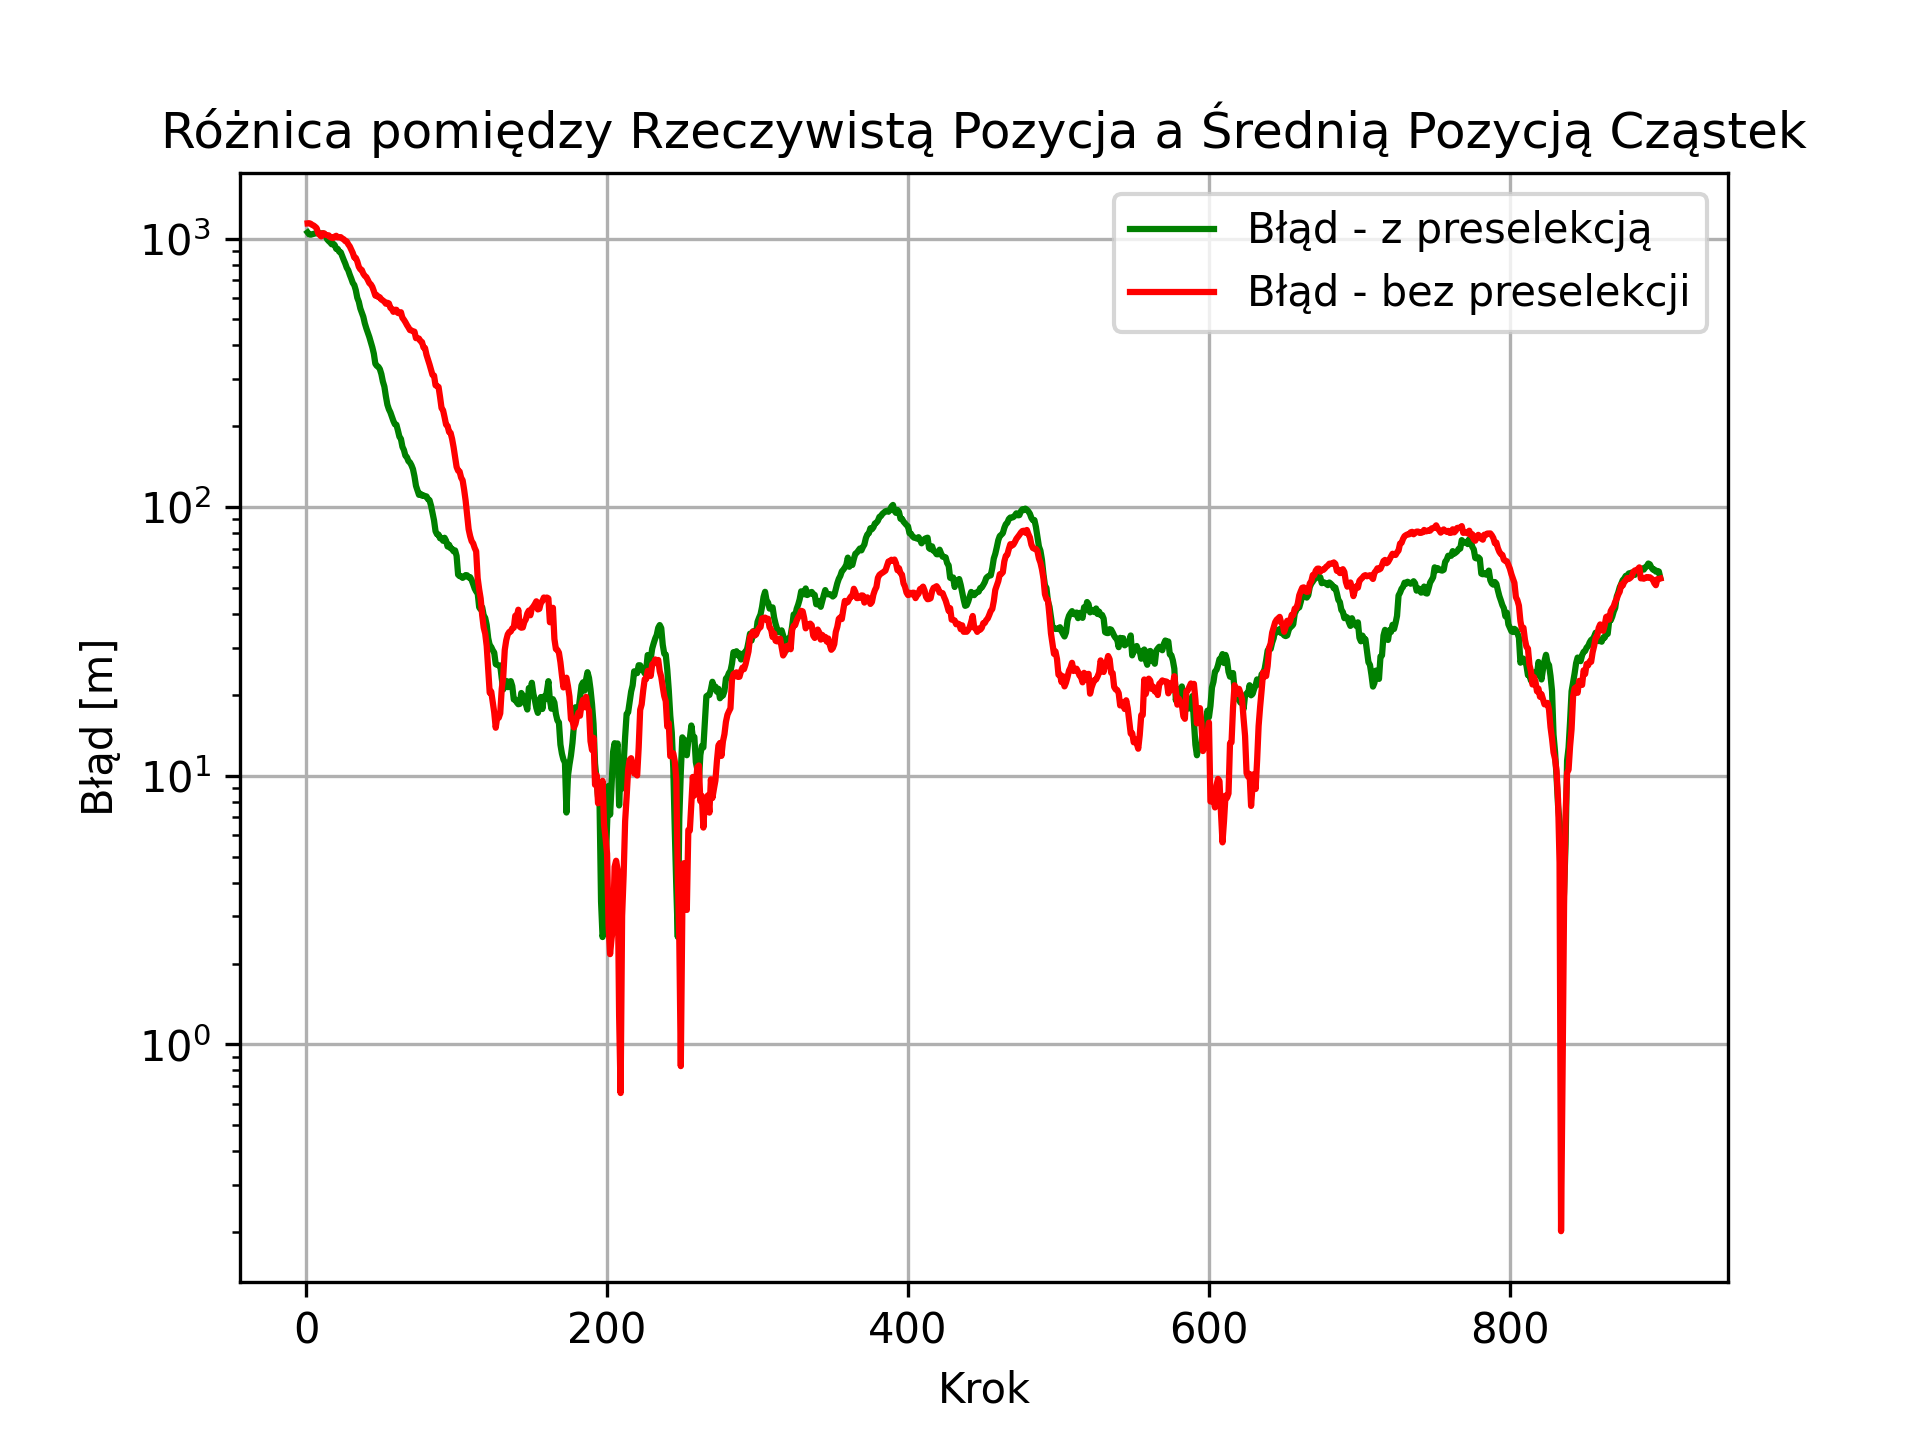
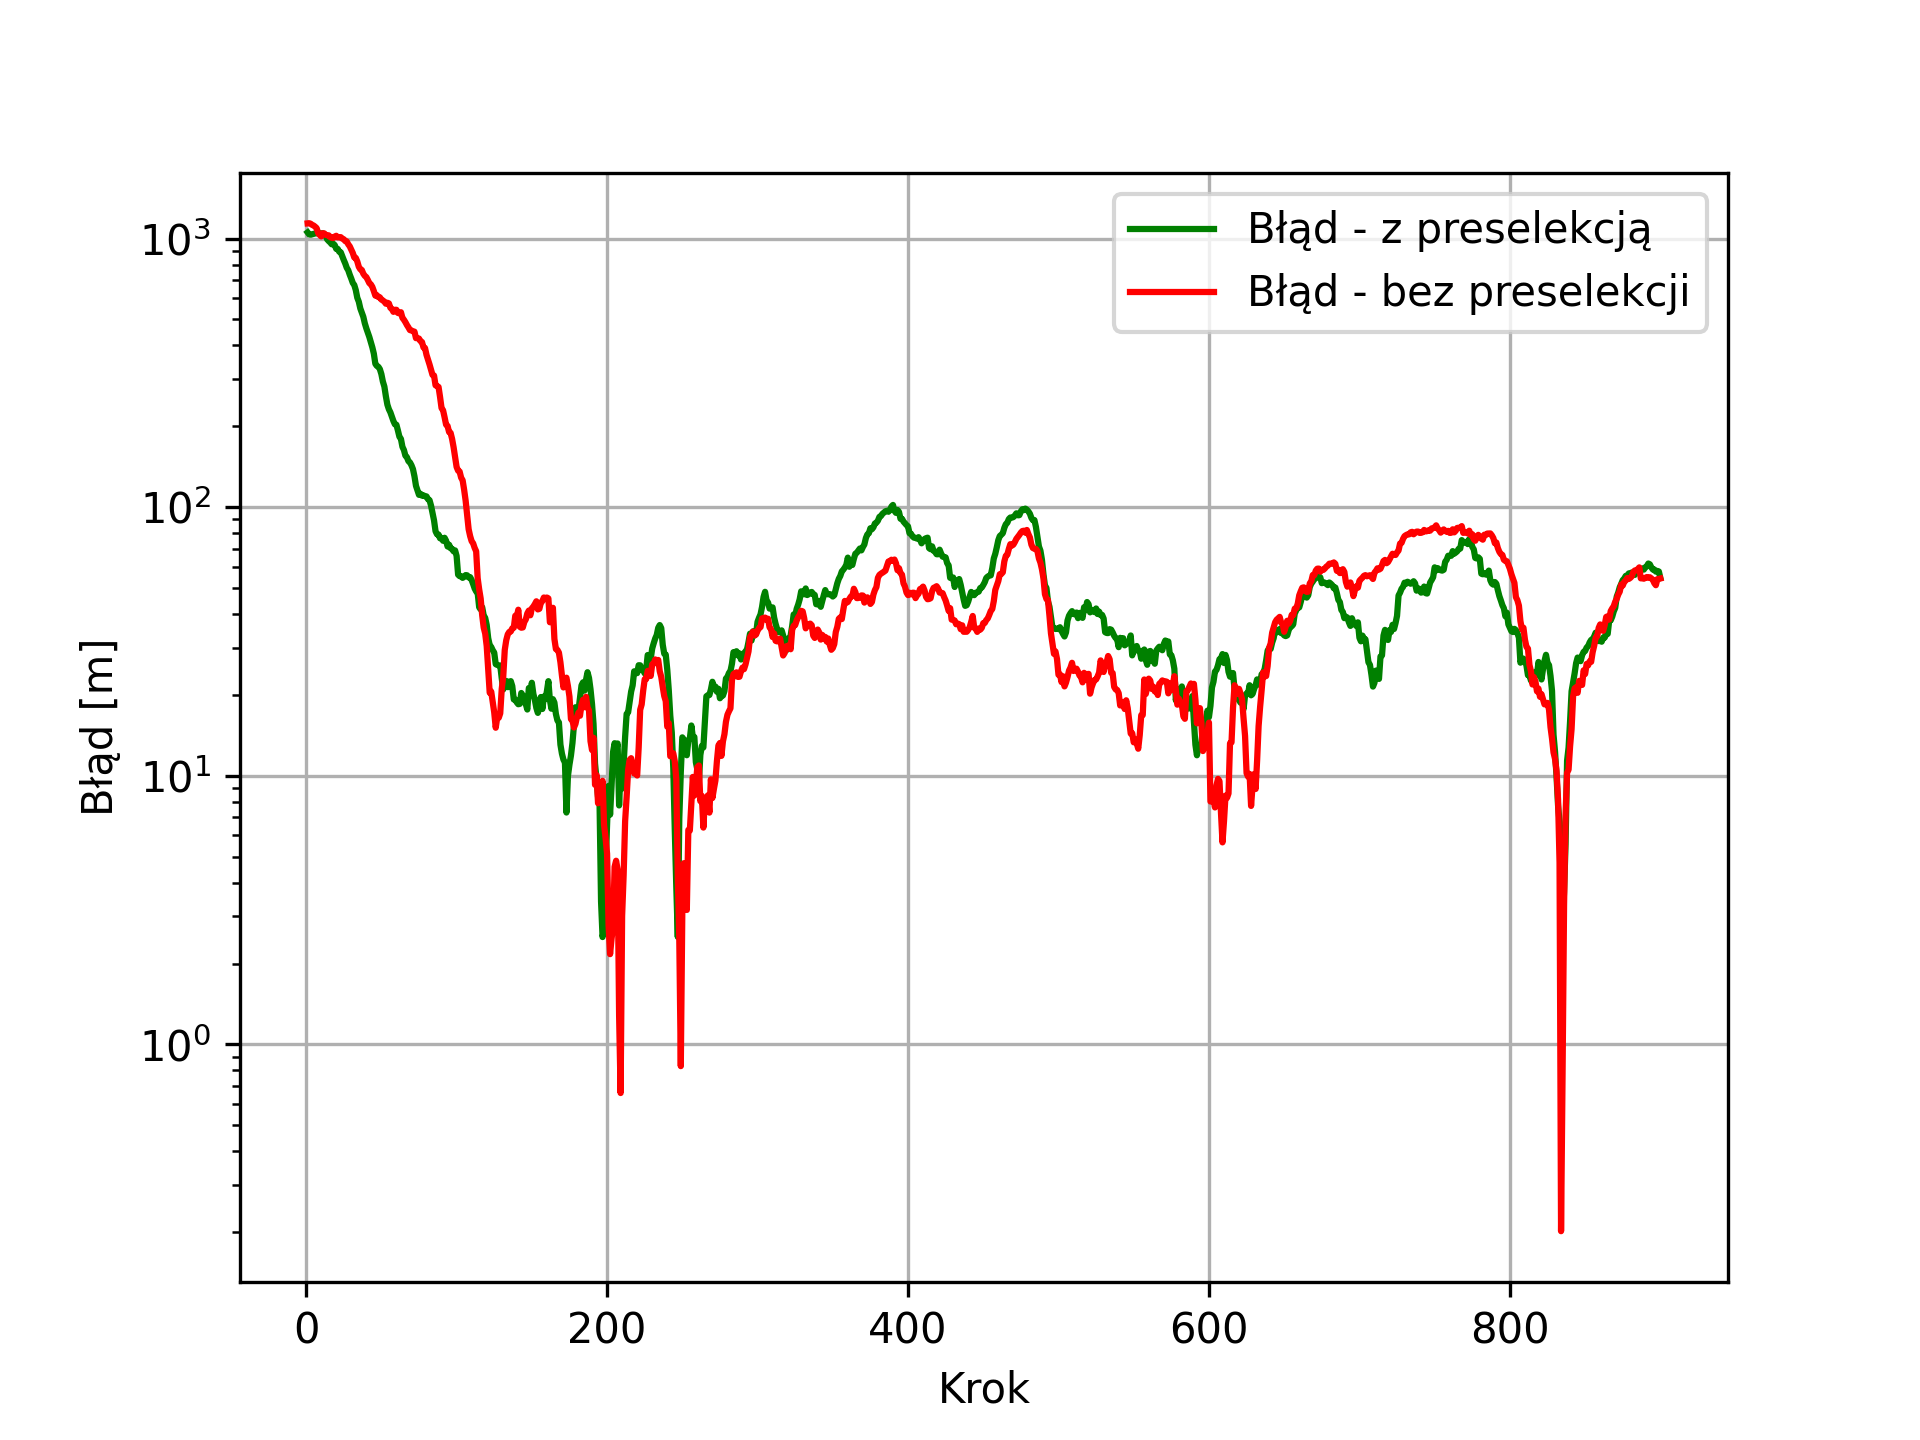
Edit ploting
new photos #2 init photo

Changed region(s): [[0.0938, 0.0625, 0.5938, 0.125], [0.625, 0.0625, 0.9375, 0.125]]

diff --git a/src/utils/ploting.py b/src/utils/ploting.py
@@ -40,7 +40,7 @@ def plot_csv_files(file1, file2):
     # ax.set_ylabel("Error [m]")
     ax.set_ylabel("Błąd [m]")
     # ax.set_title("Diff between Real Position and Mean of Sum Particles localization")
-    ax.set_title("Różnica pomiędzy Rzeczywistą Pozycja a Średnią Pozycją Cząstek")
+    # ax.set_title("Różnica pomiędzy Rzeczywistą Pozycja a Średnią Pozycją Cząstek")
     ax.set_yscale('log')
     plt.savefig('photos/pic_errors_pl.png', dpi=300)
 

diff --git a/src/__main__.py b/src/__main__.py
@@ -110,7 +110,7 @@ def main(cfg: DictConfig):
     time_metric = TimeMetric()
 
     uav = UAV(map_picture, cfg.work_env.patch_size)
-    uav.generate_trajectory(cfg.uav.traj_len)
+    uav.generate_trajectory(cfg.uav.traj_type, cfg.uav.traj_len, cfg.uav.sin_amplitude, cfg.uav.sin_freq)
 
     matcher_starter = choose_matcher(
         cfg.matcher.starter,
